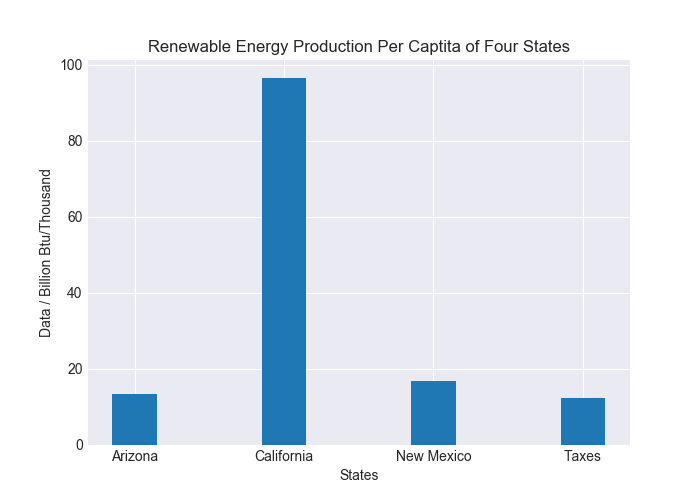
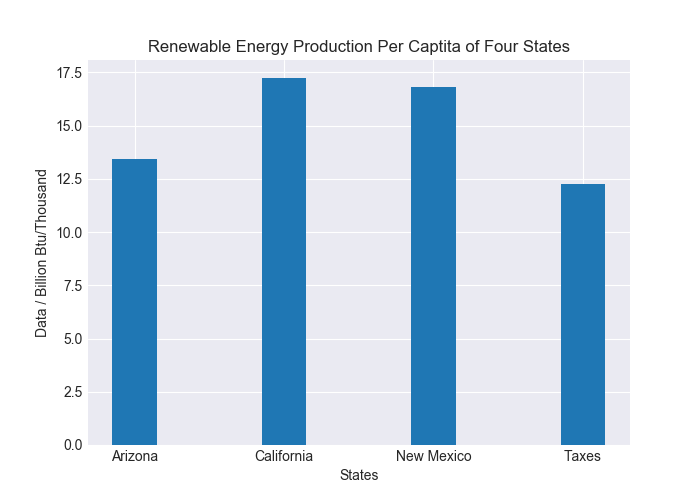
Fix typo

diff --git a/code/part_I_C/plot_renewable.py b/code/part_I_C/plot_renewable.py
@@ -68,7 +68,7 @@ fig = plt.figure(figsize=(7, 5))
 ind = np.arange(4)    # the x locations for the groups
 width = 0.3
 
-p1 = plt.bar(ind, (az_reprb/az_tpopp, ca_reprb/az_tpopp, nm_reprb/nm_tpopp, tx_reprb/tx_tpopp), width)
+p1 = plt.bar(ind, (az_reprb/az_tpopp, ca_reprb/ca_tpopp, nm_reprb/nm_tpopp, tx_reprb/tx_tpopp), width)
 
 plt.title("Renewable Energy Production Per Captita of Four States")
 plt.xlabel("States")
